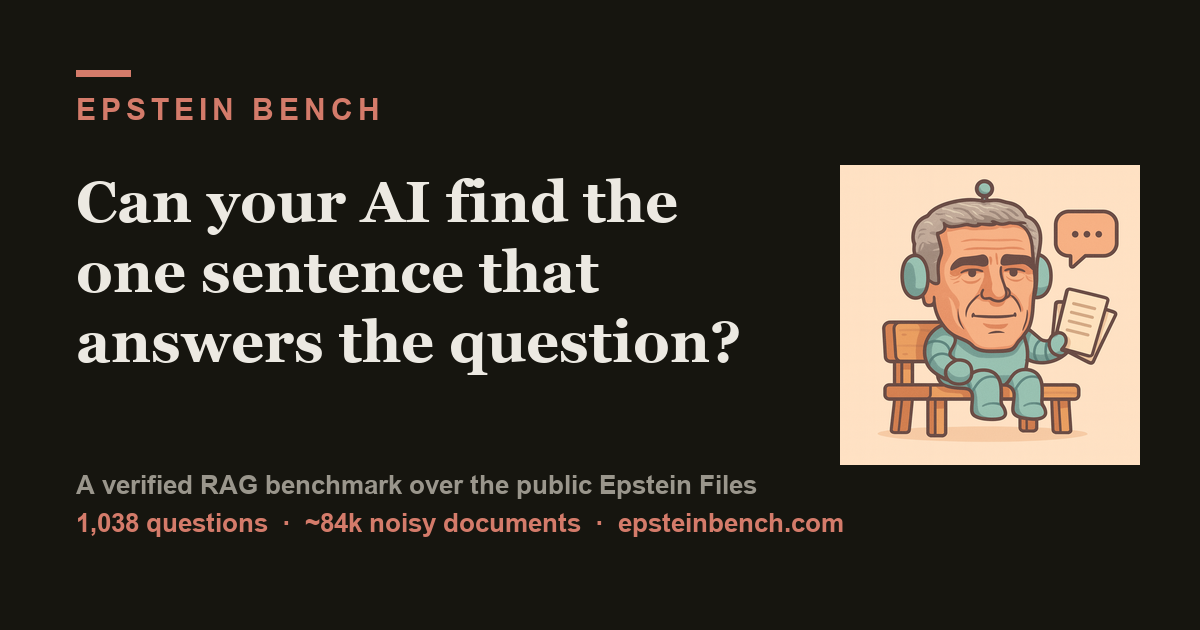
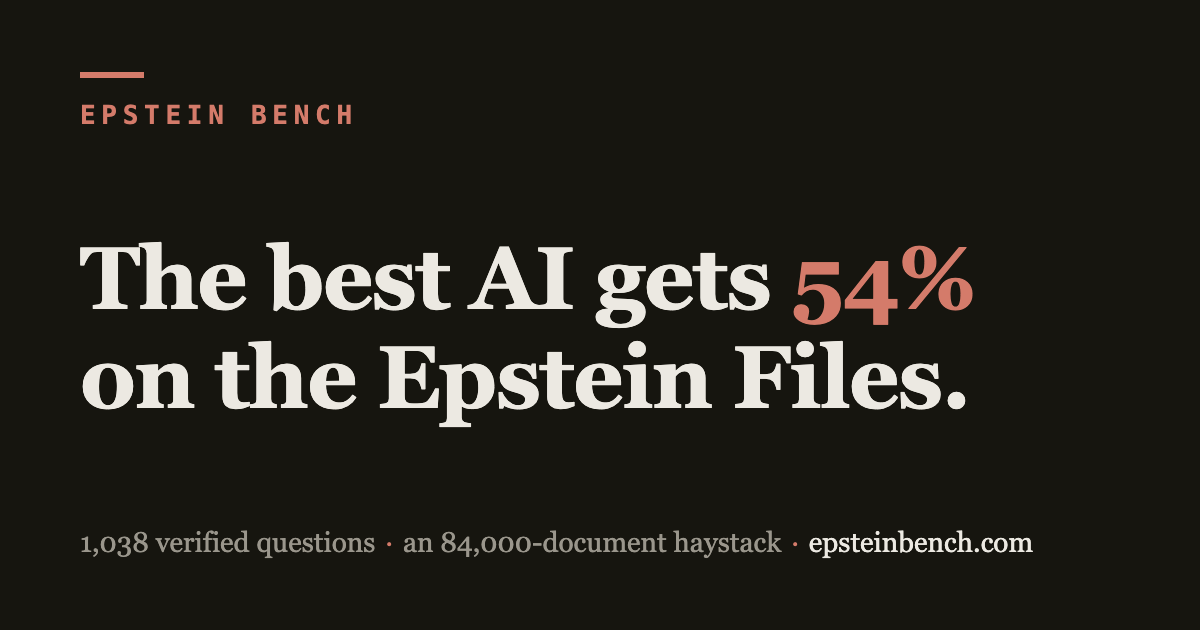
Fix Pages deploy clobbering the redesigned leaderboard; regenerate OG card
build_site.py still held the old leaderboard page as an inline template and
rewrote docs/index.html on every Pages deploy, so the redesign never went
live. index.html is now hand-authored and only build_leaderboard.py touches
it (in place, between markers); build_site.py renders just the markdown-backed
pages. New og-image.png matches the redesigned page (54% hook, no mascot),
with its HTML source checked in at scripts/og-card.html.

diff --git a/scripts/og-card.html b/scripts/og-card.html
@@ -1,0 +1,36 @@
+<!DOCTYPE html>
+<!-- Source for docs/og-image.png (1200x630 link-preview card). Regenerate with:
+  chrome --headless --screenshot=docs/og-image.png --window-size=1200,630 \
+    --hide-scrollbars file://$PWD/scripts/og-card.html -->
+<html lang="en">
+<head>
+<meta charset="utf-8">
+<style>
+  * { margin:0; box-sizing:border-box; }
+  body { width:1200px; height:630px; background:#16150f; color:#ece9e2;
+         font-family:Georgia,'Times New Roman',serif; overflow:hidden;
+         padding:72px 80px; display:flex; flex-direction:column; }
+  .rule { width:64px; height:6px; background:#d47b6a; margin-bottom:22px; }
+  .kicker { font-family:ui-monospace,Menlo,monospace; font-weight:700;
+         font-size:26px; letter-spacing:.22em; color:#d47b6a; }
+  .headline { flex:1; display:flex; flex-direction:column; justify-content:center; }
+  .headline p { font-size:88px; line-height:1.12; letter-spacing:-.015em;
+         font-weight:700; max-width:1000px; }
+  .headline .pct { color:#d47b6a; }
+  .foot { font-size:28px; color:#9a968c; }
+  .foot b { color:#ece9e2; font-weight:400; }
+  .foot .dot { color:#d47b6a; padding:0 .35em; }
+</style>
+</head>
+<body>
+  <div>
+    <div class="rule"></div>
+    <div class="kicker">EPSTEIN BENCH</div>
+  </div>
+  <div class="headline">
+    <p>The best AI gets <span class="pct">54%</span> on the Epstein&nbsp;Files.</p>
+  </div>
+  <div class="foot">1,038 verified questions<span class="dot">&middot;</span>an
+  84,000-document haystack<span class="dot">&middot;</span><b>epsteinbench.com</b></div>
+</body>
+</html>

diff --git a/scripts/build_site.py b/scripts/build_site.py
@@ -256,144 +256,10 @@ def page(
 """
 
 
-# -- leaderboard page (has live JS) --------------------------------------------
-
-LEADERBOARD_BODY = """
-  <h1>Epstein Bench</h1>
-  <p class="lede">Millions of scanned, garbled, redaction-strewn documents. Can
-  your AI find the one sentence that answers the question?</p>
-
-  <p>The public Epstein Files run to millions of released records. Every other
-  retrieval benchmark quizzes AI on clean Wikipedia; the real world looks nothing
-  like this: OCR wreckage, near-duplicate emails, endless legalese, and the one
-  fact you need buried somewhere in the pile. <strong>Epstein Bench is that
-  world.</strong> It distills the release into a benchmark: a retrieval corpus of
-  about 84,000 text documents drawn from the Files, and 1,038 questions a system
-  can only answer by finding the right document and citing it &mdash; including
-  trap questions that presuppose a meeting that never happened, where the right
-  move is to reject the premise.</p>
-
-  <p class="kicker">From the files</p>
-  <p>Real, verified questions in the benchmark. Each answer is a single sentence
-  hiding somewhere in the corpus:</p>
-  <div class="files">
-    <div class="file">
-      <div class="q">Who did Jeffrey Epstein ask to find him "the best codebreaker, NSA type"?</div>
-      <div class="a">Buried in an email to a veteran TV journalist. The system has to surface the exact thread. <b>Epstein: "Can you find me the best codebreaker nsa type."</b></div>
-    </div>
-    <div class="file">
-      <div class="q">What did Steve Bannon email Epstein about "real power"?</div>
-      <div class="a"><b>"we r on the cusp of real power."</b> One line in a chain of emails between Epstein and the former White House strategist.</div>
-    </div>
-    <div class="file">
-      <div class="q">Who was on the guest list for Epstein's dinner on September 20, 2013?</div>
-      <div class="a">A calendar entry: <b>"DINNER W/ BILL GATES, TERJE, JAGBLAND, OTHERS."</b> The corpus is full of these. The trick is retrieving the right one.</div>
-    </div>
-    <div class="file">
-      <div class="q">Which account was tied to Ghislaine Maxwell at J.P. Morgan?</div>
-      <div class="a">The answer is a line item on a scanned bank statement, the kind of needle dense-vector search routinely misses on noisy OCR.</div>
-    </div>
-  </div>
-
-  <p class="pull">The hardest questions ask a system to reconstruct the entire
-  documented timeline of one person's contacts with Epstein, scattered across
-  dozens of files. Our best baseline scores near zero.
-  <cite>the "dossier" task family</cite></p>
-
-  <h2>Cited answer correctness</h2>
-  <p>A prediction is counted correct only when it satisfies two conditions
-  jointly: a pinned LLM judge rules the answer equivalent to the reference, and
-  at least one cited document belongs to the pooled gold set. Correctness thus
-  requires grounding rather than fluency. An unsupported answer, however
-  plausible, receives no credit.</p>
-  <p>A no-retrieval control fixes the floor. Given the question alone, with no
-  access to the corpus, it scores <strong>0.000</strong> on every
-  retrieval-dependent task type, confirming that the questions cannot be answered
-  from surface priors. The same control serves as a training-contamination probe:
-  its uncited score estimates how much of the corpus a model reproduces from
-  parameters alone, a quantity expected to rise as successive models are trained
-  on this public release.</p>
-  <p class="note">Full details in the <a href="methodology.html">methodology</a>
-  and <a href="dataset.html">dataset card</a>. Every task survived a four-stage
-  verification gauntlet before release.</p>
-
-  <h2>Leaderboard: <code>full</code> split, dataset v1.0</h2>
-  <div class="tablewrap">
-    <table id="board">
-      <thead><tr>
-        <th>system</th><th>overall</th><th>95% CI</th><th>micro</th><th>uncited</th>
-        <th>single_hop</th><th>aggregation</th><th>timeline</th><th>dossier</th>
-        <th>unanswerable</th><th>false_premise</th><th>cit.&nbsp;prec</th>
-        <th>recall@5</th><th>recall@20</th><th>$/task</th><th>tok/task</th>
-      </tr></thead>
-      <tbody></tbody>
-    </table>
-    <div class="empty" id="empty" hidden>No verified submissions yet.</div>
-  </div>
-  <p class="note">Scores are recomputed by CI from raw predictions; self-reported
-  numbers are never used. <strong>overall</strong> is the macro-average with a
-  bootstrap <strong>95% CI</strong>; <strong>micro</strong> is the task-weighted
-  average (the two diverge for no-retrieval systems, which score only on the
-  rejection types). <strong>uncited</strong> = correctness ignoring the citation
-  gate (for the <code>parametric</code> baseline, a probe of how much of the
-  corpus a model already knows from training). <strong>false_premise</strong>
-  rewards rejecting a fabricated meeting; every baseline refuses, but none yet
-  names the specific falsehood. Submit via PR. See the
-  <a href="%GITHUB%#submitting-to-the-leaderboard">README</a>.</p>
-
-  <div class="disclaimer">These are public records released by U.S. courts and
-  Congress. Appearing in the files means appearing in someone's email, calendar,
-  or financial records. It is not an accusation of wrongdoing. Epstein Bench
-  measures whether AI can retrieve and cite what the documents say; it takes no
-  position on anyone's conduct.</div>
-
-<script>
-  const fmt = x => (typeof x === "number" ? x.toFixed(3) : "n/a");
-  const ci = a => (Array.isArray(a) && a.length === 2
-    ? "[" + a[0].toFixed(2) + ", " + a[1].toFixed(2) + "]" : "n/a");
-  const usd = x => (typeof x === "number" ? "$" + x.toFixed(4) : "n/a");
-  const tok = x => (typeof x === "number" ? Math.round(x).toLocaleString() : "n/a");
-  fetch("leaderboard.json").then(r => r.json()).then(data => {
-    const rows = data.entries || [];
-    if (!rows.length) { document.getElementById("empty").hidden = false; return; }
-    const tb = document.querySelector("#board tbody");
-    for (const e of rows) {
-      const t = e.per_type || {}, r = e.retrieval || {};
-      const cells = [e.system_name || "?", fmt(e.overall_cited_correctness),
-        ci(e.overall_cited_correctness_ci95), fmt(e.overall_cited_correctness_micro),
-        fmt(e.overall_uncited_correctness), fmt(t.single_hop), fmt(t.aggregation),
-        fmt(t.timeline), fmt(t.dossier), fmt(t.unanswerable), fmt(t.false_premise),
-        fmt(e.citation_precision), fmt(r["recall@5"]), fmt(r["recall@20"]),
-        usd(e.cost_usd_per_task), tok(e.tokens_per_task)];
-      const tr = document.createElement("tr");
-      cells.forEach((v, i) => { const td = document.createElement("td");
-        if (i === 1) td.className = "headline"; td.textContent = v; tr.appendChild(td); });
-      tb.appendChild(tr);
-    }
-  }).catch(() => { document.getElementById("empty").hidden = false; });
-</script>
-""".replace("%GITHUB%", GITHUB)
-
-
-HERO_DESC = (
-    "Millions of scanned, garbled documents. Can your AI find the one sentence "
-    "that answers the question? A verified RAG benchmark over the public Epstein "
-    "Files, with a live leaderboard."
-)
-
-
 def main() -> None:
-    (DOCS / "index.html").write_text(
-        page(
-            "Epstein Bench: Leaderboard",
-            "home",
-            LEADERBOARD_BODY,
-            description=HERO_DESC,
-            path="",
-            share_title="Epstein Bench",
-        )
-    )
-
+    # docs/index.html is authored by hand; scripts/build_leaderboard.py bakes
+    # the leaderboard tables and hero stat into it in place. This script only
+    # regenerates the markdown-backed pages.
     methodology = (DOCS / "methodology.md").read_text()
     (DOCS / "methodology.html").write_text(
         page(
@@ -423,7 +289,7 @@ def main() -> None:
             path="dataset.html",
         )
     )
-    print("wrote docs/index.html, docs/methodology.html, docs/dataset.html")
+    print("wrote docs/methodology.html, docs/dataset.html")
 
 
 if __name__ == "__main__":
